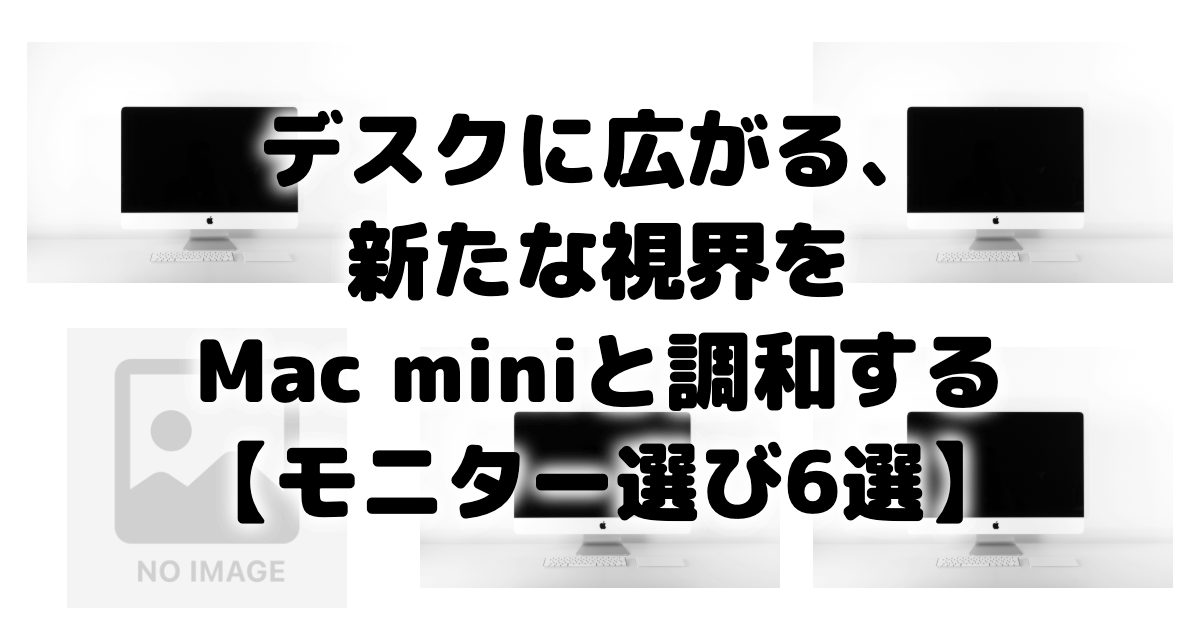
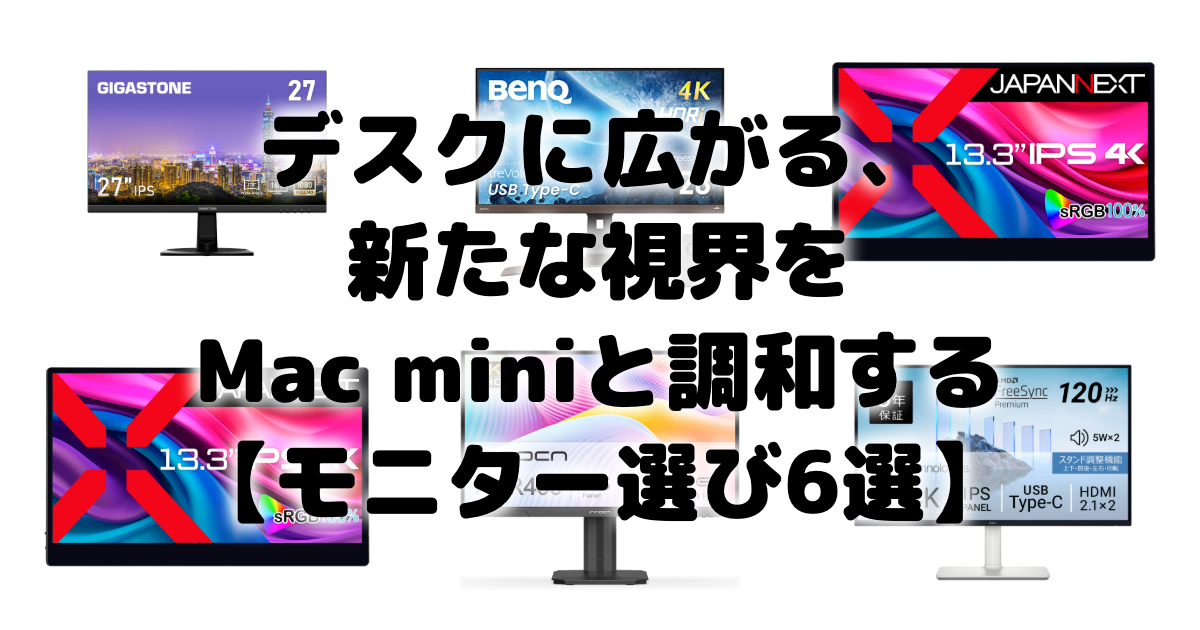
fix: update Mac mini monitors article with direct URLs, real images, and display enhancements

diff --git a/public/eyecatch/20260528-mac-mini-monitors.html b/public/eyecatch/20260528-mac-mini-monitors.html
@@ -9,12 +9,12 @@ body { font-family: 'M PLUS Rounded 1c', sans-serif; display: flex; align-items:
 .to { position: absolute; inset: 0; display: flex; align-items: center; justify-content: center; z-index: 100; pointer-events: none; }
 .ti { font-size: 85px; font-weight: 900; color: #000; line-height: 1.3; text-align: center; width: 100%; padding: 0 60px; text-shadow: 0 0 20px #fff, 0 0 20px #fff, 0 0 20px #fff; word-break: keep-all; }
 </style></head><body>
-<div class="g"><div class="pw"><img src="https://images.unsplash.com/photo-1527443224154-c4a3942d3acf" class="pi" alt="" loading="eager" /></div>
-<div class="pw"><img src="https://thumbnail.image.rakuten.co.jp/@0_gold/bearhomes/cabinet/11088757/e366996.jpg" class="pi" alt="" loading="eager" /></div>
-<div class="pw"><img src="https://images.unsplash.com/photo-1527443224154-c4a3942d3acf" class="pi" alt="" loading="eager" /></div>
-<div class="pw"><img src="https://item-shopping.c.yimg.jp/i/l/japannext_4589511167342.jpg" class="pi" alt="" loading="eager" /></div>
-<div class="pw"><img src="https://images.unsplash.com/photo-1527443224154-c4a3942d3acf" class="pi" alt="" loading="eager" /></div>
-<div class="pw"><img src="https://images.unsplash.com/photo-1527443224154-c4a3942d3acf" class="pi" alt="" loading="eager" /></div>
+<div class="g"><div class="pw"><img src="https://m.media-amazon.com/images/I/61mjnXrgKbL.jpg" class="pi" alt="" loading="eager" /></div>
+<div class="pw"><img src="https://m.media-amazon.com/images/I/51imlTGqjcL.jpg" class="pi" alt="" loading="eager" /></div>
+<div class="pw"><img src="https://m.media-amazon.com/images/I/716aFHe0c2L.jpg" class="pi" alt="" loading="eager" /></div>
+<div class="pw"><img src="https://m.media-amazon.com/images/I/716aFHe0c2L.jpg" class="pi" alt="" loading="eager" /></div>
+<div class="pw"><img src="https://m.media-amazon.com/images/I/71qLlht1sJL.jpg" class="pi" alt="" loading="eager" /></div>
+<div class="pw"><img src="https://m.media-amazon.com/images/I/710yap4MbDL.jpg" class="pi" alt="" loading="eager" /></div>
 </div>
 <div class="to"><h1 class="ti">デスクに広がる、新たな視界を<br />Mac miniと調和する<br />【モニター選び6選】</h1></div>
 </body></html>

diff --git a/app/articles/[slug]/page.tsx b/app/articles/[slug]/page.tsx
@@ -114,8 +114,23 @@ export default async function ArticleDetail({ params }: { params: Promise<{ slug
               レビュー
             </div>
             
-            <h1 className="article-title text-xl md:text-2xl lg:text-3xl font-black leading-snug mb-2 text-foreground">
-              {article.title}
+            <h1 className="article-title leading-snug mb-2 text-foreground flex flex-col items-center">
+              {(() => {
+                const parts = article.title.split(/(?=【)/);
+                if (parts.length > 1) {
+                  return (
+                    <>
+                      <span className="block text-lg md:text-xl lg:text-2xl text-foreground/80 mb-2 font-bold leading-normal">
+                        {parts[0]}
+                      </span>
+                      <span className="block text-xl md:text-2xl lg:text-3xl font-black text-foreground">
+                        {parts.slice(1).join('')}
+                      </span>
+                    </>
+                  );
+                }
+                return <span className="text-xl md:text-2xl lg:text-3xl font-black">{article.title}</span>;
+              })()}
             </h1>
             
             <div className="flex items-center justify-center gap-2 mb-6 text-[10px] md:text-xs font-bold text-muted">

diff --git a/src/lib/api.ts b/src/lib/api.ts
@@ -318,6 +318,10 @@ export async function getArticleBySlug(slug: string): Promise<ArticleItem | null
     let content = matterResult.content;
 
     // Custom markdown transformations (pro/con boxes, rating, affiliate buttons)
+    content = content.replace(/\[(?:RATING|総合評価)[：:]\s*([0-9.]+)\]/g, (match, score) => {
+      return `<div class="inline-flex items-center gap-1.5 bg-rose-50 text-rose-600 px-4 py-1.5 rounded-full text-xs font-black my-4 border border-rose-100/80"><span class="text-rose-500 text-sm">⭐</span> 総合評価 <span class="text-base font-black text-rose-700">${score}</span></div>`;
+    });
+
     content = content.replace(/:::pro\r?\n([\s\S]*?)\r?\n:::/g,
       '<div class="pro-box"><div class="pro-title">✅ メリット</div>$1</div>');
     content = content.replace(/:::con\r?\n([\s\S]*?)\r?\n:::/g,
